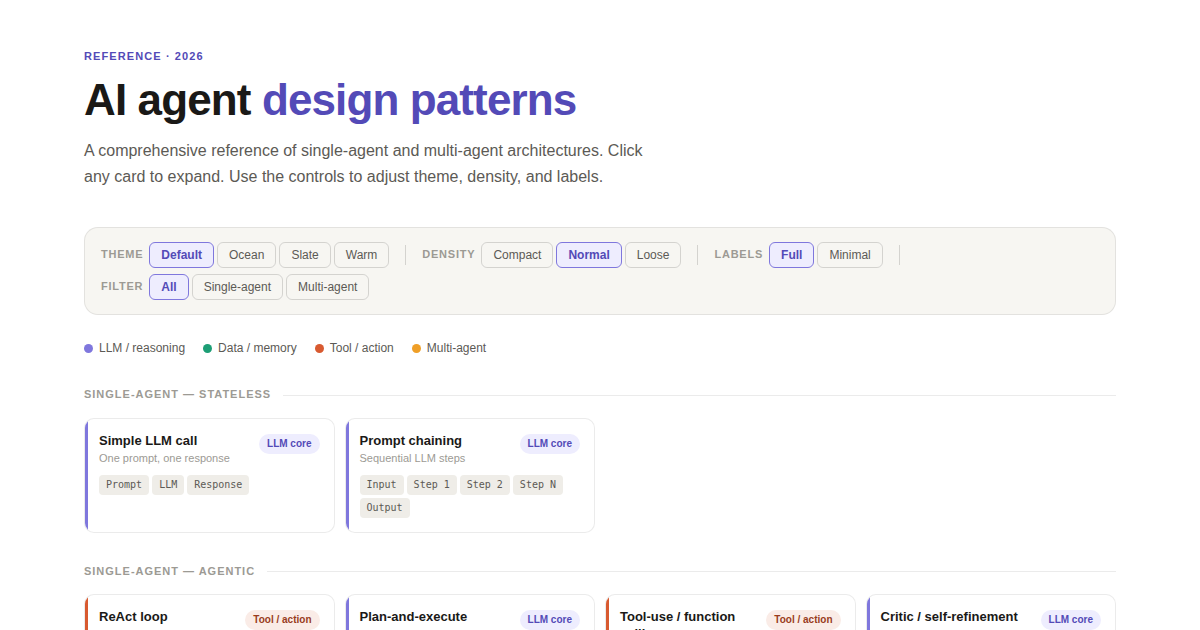
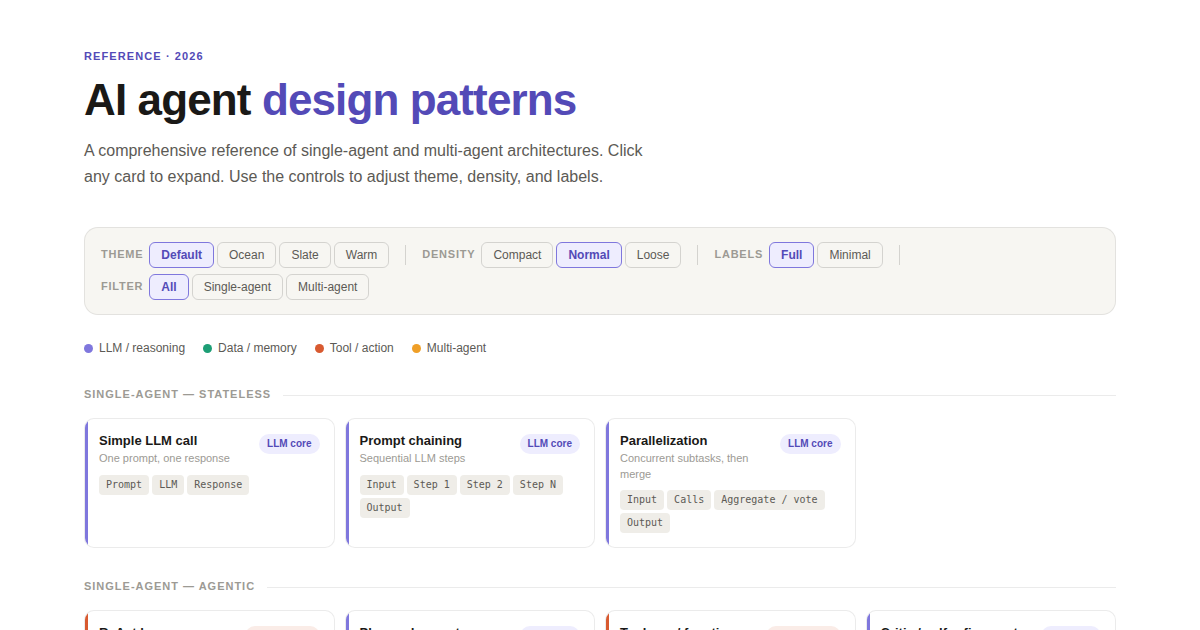
Refresh README screenshot and fix stale doc references
docs/preview.png now reflects the 18-pattern grid (was still showing
the pre-Parallelization/Tree-of-Thoughts/Agentic-RAG state). Also
removed the README's "placeholder until GitHub Pages is enabled" note
now that the deploy workflow has been succeeding on main, and added
the missing "Low – Med" complexity value to CLAUDE.md's schema comment.

Claude-Session: https://claude.ai/code/session_01LLtTG22WSrRfurHKzaMc8h

diff --git a/CLAUDE.md b/CLAUDE.md
@@ -73,7 +73,7 @@ hardcode any hex values outside the token definitions.
   catLabel: string,
   desc: string,         // full description (shown on expand)
   uses: string,         // common use cases
-  complexity: string,   // Low / Medium / High / Very high
+  complexity: string,   // Low / Low – Med / Medium / High / Very high
   agents: string,       // count or range
   loops: string,
   statefulness: string,

diff --git a/README.md b/README.md
@@ -2,7 +2,7 @@
 
 [![Deploy to GitHub Pages](https://github.com/hefrock/ai-agent-patterns/actions/workflows/deploy.yml/badge.svg)](https://github.com/hefrock/ai-agent-patterns/actions/workflows/deploy.yml)
 
-**Live site:** https://hefrock.github.io/ai-agent-patterns/ <!-- placeholder until GitHub Pages is enabled (Settings → Pages → Deploy from branch → main / root) -->
+**Live site:** https://hefrock.github.io/ai-agent-patterns/
 
 An interactive reference of AI agent design patterns — single-agent and
 multi-agent architectures — covering 18 patterns across 8 sections. 